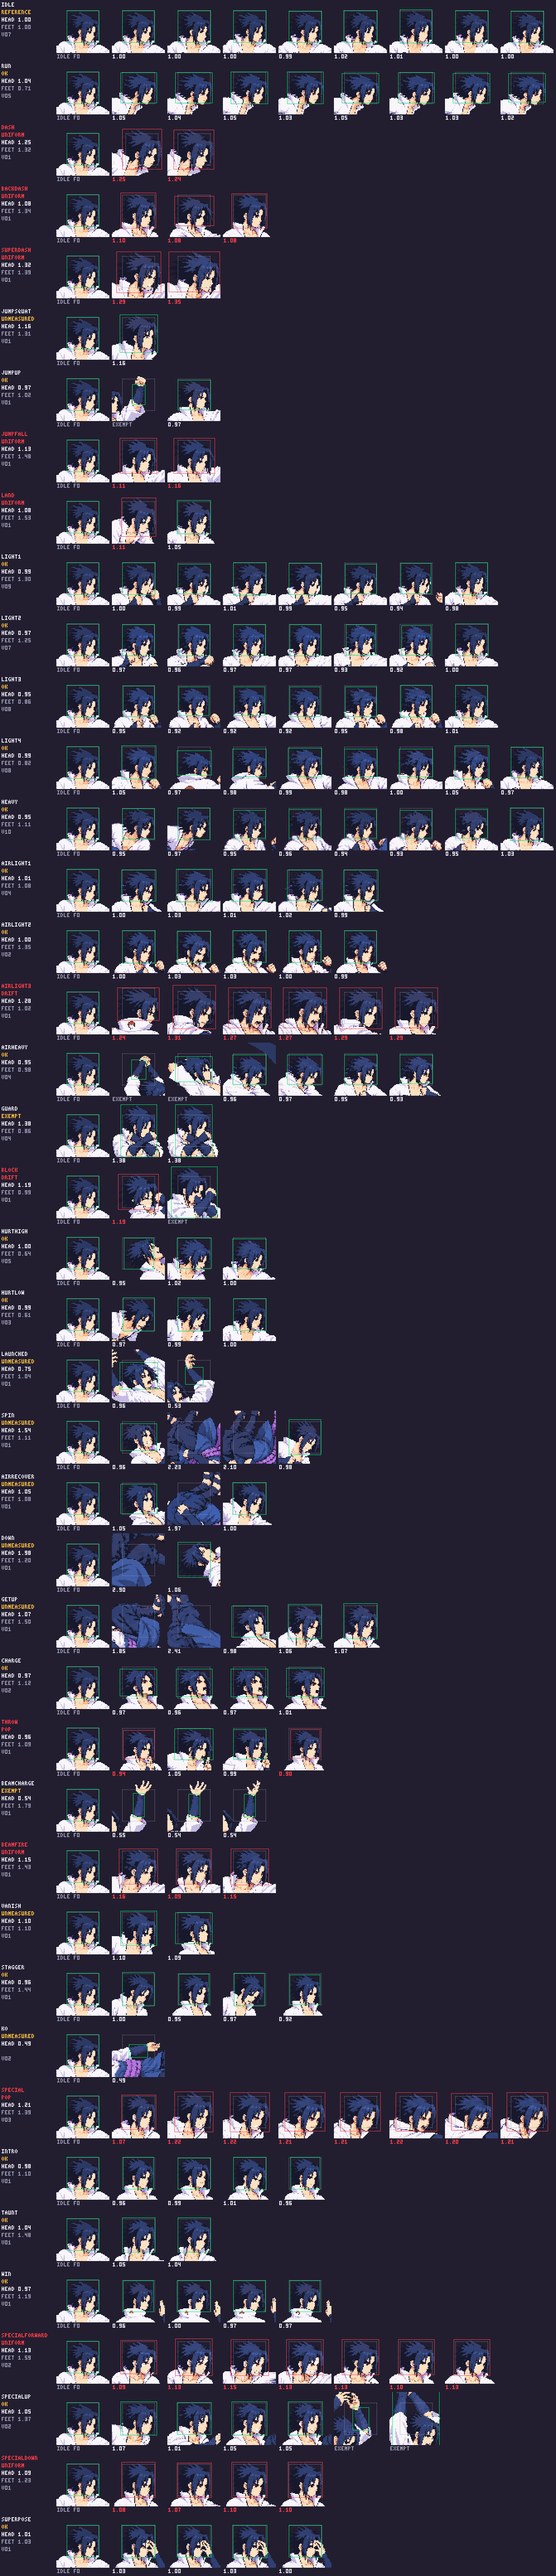
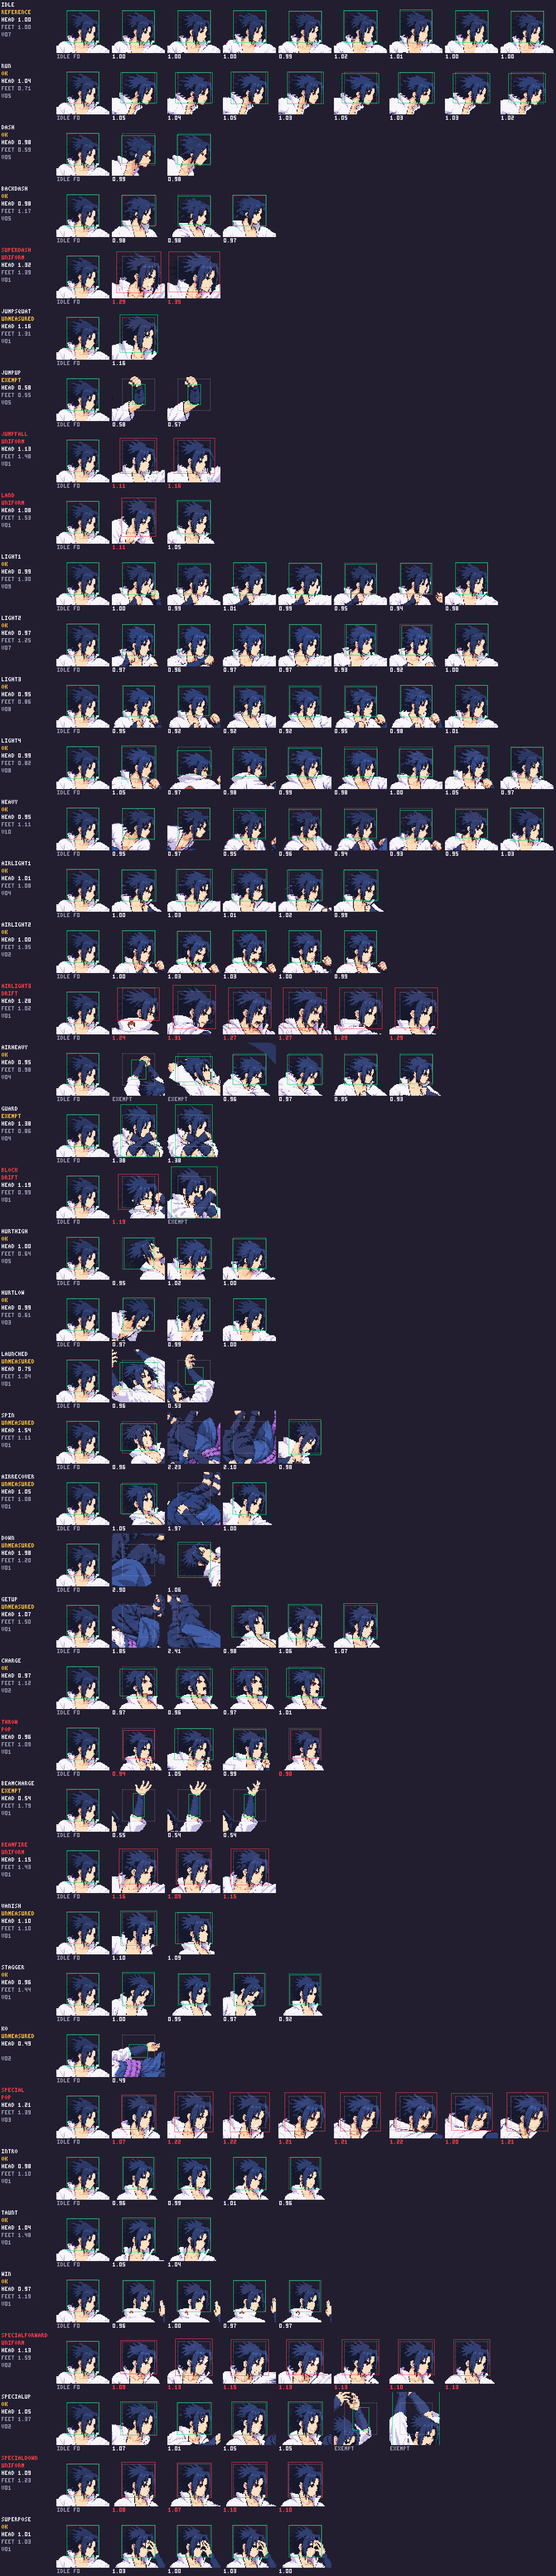
art(sasuke): add title-style dash backdash and rising jump

Changed region(s): [[0.2139, 0.0312, 0.4888, 0.0936], [0.3055, 0.1248, 0.3972, 0.1873], [0.2139, 0.156, 0.2444, 0.1873]]

diff --git a/art/characters/sasuke/production/title-style/QA.md b/art/characters/sasuke/production/title-style/QA.md
@@ -83,6 +83,12 @@ User-approved source: `reference/title_style_draft_v01.png`, plus the 256 px neu
 - `hurtHigh_v05.png` and `hurtLow_v03.png` use measured body-height corrections after the initial candidate gate read the heads at 1.12× and 1.10× idle respectively: 195/1.12=174, 183/1.10=166. Both new-strip 48-color gates then pass without clipping or exemptions. [Actual atlas high-hurt cells](packed-hurtHigh-v05.png) occupy 152×171, 136×173 and 155×174 px; [low-hurt cells](packed-hurtLow-v03.png) occupy 126×143, 132×158 and 140×166 px. The head and torso do not visibly pop while the poses rise toward the approved open-palm guard, and soles are at y240. These are provisional final-set candidates, not user-approved images.
 - `launched_v03.png` was too horizontal and the automated gate required low-confidence independent anatomy review. v04 preserved generated pixels and applied measured +45/+24 px frame offsets to remove left clipping; a temporary **diagnostic-only** manifest extracted [actual atlas QA](packed-launched-v04-qa.png). Its skull/body read too small and the pose remained too horizontal. The second imagegen attempt also stayed horizontal. The third attempt, v05, [diagnostic atlas QA](packed-launched-diag-v05.png), has a more compact bent-knee recoil but open eyes/calm expression instead of the canonical squeezed-shut hit face; the independent one-scale proof remains inconclusive. All v03-v05 are archived technical/visual rejects; no production `scaleManualQA` or exemption was filed. The original approved v01 packs. This animation needs a new round after revising the pose reference or technical brief.
 
+## Dash, backdash and rising jump
+
+- Git history fixes the next numbers at dash v03, backDash v04 and jumpUp v03. The first dash (v03) clipped 14/23 px right and its head popped from 1.06× to 0.91× idle; v04 drew a 1.23× head relative to small feet. v05 is the third imagegen attempt, reducing head without shrinking the torso/legs. Its 48-color new-strip gate passes without clipping or scale exemption. [Both actual atlas cells](packed-dash-v05.png) show the same low forward lean, rear-swept arms and rope, stable skull and y240 sandals.
+- BackDash v04's head measured 1.11× idle while feet measured 0.97×, so it was archived. v05 corrected the head relative to the same torso/legs. Its 48-color new-strip gate passes without exemption or clipping; [actual atlas frames](packed-backDash-v05.png) show push-off, airborne tuck and open-palm landing, with no visible build pop.
+- JumpUp v03 had an automated f0/f1 pop (0.57×/1.13×), and v04 had an automated 0.57× head finding plus near-duplicate poses. The final third imagegen attempt v05 varies the knee and cloth and keeps the skull and body visually stable. The automatic gate reads 0.58× head and 0.55× foot uniformly in an airborne knee tuck; that **is not a numeric pass**. A temporary diagnostic atlas and [3× nearest-neighbor head comparison](packed-jumpUp-v05-head-compare.png) supported independent inspection. The exposed face/neck skin vertical range is idle y84..121 (38 px), v05 f0 y70..107 (38 px), f1 y67..107 (41 px); horizontal face spans are about 25–26 px. At native [actual atlas size](packed-jumpUp-v05.png), the shirt's neck-to-belt length, narrow shoulder/sleeve breadth, forearm length, rope and sheathed sword match idle, while the thighs and shins fold under the hips as the canonical jump requires. The tucked pose prevents a reliable numeric full-limb length estimate. A v05-only **manual anatomy exemption** records this visual one-scale decision; the low-confidence numeric finding remains unresolved and the image is still provisional for user final-set review.
+
 ## Remaining checks
 
 The escalated local Vite adapter served port 5222. The in-app browser showed two Sasuke fighters at the same game depth with the new idle, matched apparent height and grounded feet. The console logged `[sprites] using custom sheet for sasuke (42 animations)` and no errors. The production build passed (80 modules) and the adapter's HTTP self-check returned four 200 responses. Full production, full-character strict scale, contact/hurtbox validation, user image approval, integration and deployment remain open.

diff --git a/art/REVIEW.md b/art/REVIEW.md
@@ -53,6 +53,14 @@ Status values: `needs review` · `approved` · `rejected`.
 
 | date | character | asset | file | version | status | what changed | QA notes |
 |---|---|---|---|---|---|---|---|
+| 2026-10-11 | sasuke | dash | [dash_v05.png](characters/sasuke/raw/dash_v05.png) | v05 | needs review | Third title-style low forward dash attempt, with corrected head and compact rear leg. | 48-color new-strip scale gate passes without exemption or clipping. [Actual packed cells](characters/sasuke/production/title-style/packed-dash-v05.png) · [heads sheet](scale/heads-sasuke.png) · [QA](characters/sasuke/production/title-style/QA.md). Full-set review pending. |
+| 2026-10-11 | sasuke | backDash | [backDash_v05.png](characters/sasuke/raw/backDash_v05.png) | v05 | needs review | Title-style three-frame hop with corrected skull and open-palm landing. | 48-color new-strip gate passes without clipping or exemption. [Actual packed cells](characters/sasuke/production/title-style/packed-backDash-v05.png) · [heads sheet](scale/heads-sasuke.png) · [QA](characters/sasuke/production/title-style/QA.md). Full-set review pending. |
+| 2026-10-11 | sasuke | jumpUp | [jumpUp_v05.png](characters/sasuke/raw/jumpUp_v05.png) | v05 | needs review | Third title-style tucked rising-jump loop. | 48-color pack uses v05-only **manual** anatomy exemption: numeric 0.58 head/0.55 foot finding is unresolved; native atlas skull, torso and folded-limb inspection supports one scale with uncertainty. [Actual cells](characters/sasuke/production/title-style/packed-jumpUp-v05.png) · [head comparison](characters/sasuke/production/title-style/packed-jumpUp-v05-head-compare.png) · [QA](characters/sasuke/production/title-style/QA.md). Full-set review pending. |
+| 2026-10-11 | sasuke | dash | [dash_v04.png](characters/sasuke/raw/_rejected/dash_v04.png) | v04 | rejected | Second low dash redraw. | Head 1.23× approved idle while feet read 0.58×: disproportionate head/body; new-strip gate failed. |
+| 2026-10-11 | sasuke | dash | [dash_v03.png](characters/sasuke/raw/_rejected/dash_v03.png) | v03 | rejected | First title-style low dash. | New-strip gate failed: 14/23 px right clipping and within-strip head 1.06×/0.91× pop. |
+| 2026-10-11 | sasuke | backDash | [backDash_v04.png](characters/sasuke/raw/_rejected/backDash_v04.png) | v04 | rejected | First title-style three-frame backward hop. | Head 1.11× idle while foot proxy 0.97×, so a head-only drift; corrected in v05. |
+| 2026-10-11 | sasuke | jumpUp | [jumpUp_v04.png](characters/sasuke/raw/_rejected/jumpUp_v04.png) | v04 | rejected | Second title-style rising-jump redraw. | Automated head 0.57× and nearly duplicate poses; no independent one-scale finding at this version. |
+| 2026-10-11 | sasuke | jumpUp | [jumpUp_v03.png](characters/sasuke/raw/_rejected/jumpUp_v03.png) | v03 | rejected | First title-style rising jump. | Automated f0/f1 head pop 0.57×/1.13×; no valid new-strip pack. |
 | 2026-10-11 | sasuke | launched | [launched_v05.png](characters/sasuke/raw/_rejected/launched_v05.png) | v05 | rejected | Third imagegen attempt bends the knees for a more compact diagonal recoil. | [Diagnostic atlas](characters/sasuke/production/title-style/packed-launched-diag-v05.png) still shows calm, open eyes instead of the canonical squeezed-shut hit face; low-confidence one-scale anatomy cannot be certified. No production exemption; old approved v01 remains packed. [QA](characters/sasuke/production/title-style/QA.md). |
 | 2026-10-11 | sasuke | launched | [launched_v04.png](characters/sasuke/raw/_rejected/launched_v04.png) | v04 | rejected | Frame-offset patch of v03 source to correct left clipping. | Measured +45/+24 px offsets removed clipping, but [diagnostic packed cells](characters/sasuke/production/title-style/packed-launched-v04-qa.png) remain too horizontal and small. No production exemption. |
 | 2026-10-11 | sasuke | launched | [launched_v03.png](characters/sasuke/raw/_rejected/launched_v03.png) | v03 | rejected | First title-style airborne recoil. | Too horizontal for canonical arched diagonal pose; head/body gate low confidence, and f0/f1 clipped 42/21 px left. |

diff --git a/docs/TASKS.md b/docs/TASKS.md
@@ -20,7 +20,7 @@ The single list of work in flight, shared by the user, Claude and Codex. The pro
 
 ## Milestone M2: training, input, hit accuracy (v0.3.0)
 
-**ART-SAS-TITLE-20261011**, Codex, in-progress. files: art/characters/sasuke/, art/manifest.json, art/TRACKER.md, art/REVIEW.md, art/scale/heads-sasuke.png, public/characters/sasuke/, docs/TASKS.md, CHANGELOG.md. User approved title-style draft and scaled pilot, authorized all 42 animations plus 3 UI without intermediate image gates. Branch `art/sasuke-title-production`, real sparse worktree and draft PR #71 with committed WIP preview. Idle v07, guard v04, run v05, light1 v09, light2 v07, light3 v08, light4 v08, heavy v10, airLight1 v04, airHeavy v04, hurtHigh v05 and hurtLow v03 have native QA; attack endpoints use measured generated idle f0 source for the approved open-palm recovery stance. AirHeavy v04 head-mask exemption is manual and version-only. Down/KO new-style v04/v05 kept original pose layouts but failed clip/floor/scale checks after three imagegen attempts; launched v03-v05 failed pose/scale proof after three attempts; all archived, originals still pack pending redraw guidance. Earlier attack candidates remain archived with reasons in REVIEW.md. Live equal-depth idle/custom-sheet load passed. Full batch, user final review and Claude integration remain open.
+**ART-SAS-TITLE-20261011**, Codex, in-progress. files: art/characters/sasuke/, art/manifest.json, art/TRACKER.md, art/REVIEW.md, art/scale/heads-sasuke.png, public/characters/sasuke/, docs/TASKS.md, CHANGELOG.md. User approved title-style draft and scaled pilot, authorized all 42 animations plus 3 UI without intermediate image gates. Branch `art/sasuke-title-production`, real sparse worktree and draft PR #71 with committed WIP preview. Idle v07, guard v04, run v05, light1 v09, light2 v07, light3 v08, light4 v08, heavy v10, airLight1 v04, airHeavy v04, hurtHigh v05, hurtLow v03, dash v05, backDash v05 and jumpUp v05 have native QA. Attack endpoints use measured generated idle f0 source for the approved open-palm recovery stance. AirHeavy v04 and jumpUp v05 head-mask exemptions are manual and version-only; jumpUp numeric 0.58/0.55 finding remains unresolved. Down/KO new-style v04/v05 kept original pose layouts but failed clip/floor/scale checks after three imagegen attempts; launched v03-v05 failed pose/scale proof after three attempts; all archived, originals still pack pending redraw guidance. Earlier movement/attack candidates remain archived with reasons in REVIEW.md. Live equal-depth idle/custom-sheet load passed. Full batch, user final review and Claude integration remain open.
 
 Cast proportion review: **ART-CAST-SAMPLES**, Codex, review. User requested a quick sample checkpoint before the full frame audit. Branch `art/cast-scale-samples` compares production-matched sprites, Naruto guard/block/spot-dodge head crops, and approved turnarounds. No art approvals or gameplay changes. Full audit paused for user feedback; Claude owns integration.
 

diff --git a/art/TRACKER.md b/art/TRACKER.md
@@ -154,12 +154,12 @@ Sprite Lab; if his hair adds clearly less height and his head comes out bigger, 
 | 7 | beamCharge | 3 | - | **yes** | 198 | approved | v01 | v01 | User approved the final batch 2026-10-10 (chat with Claude, PR #9). |
 | 7 | beamFire | 3 | - | **yes** | 198 | approved | v01 | v01 | User approved the final batch 2026-10-10 (chat with Claude, PR #9). |
 | 7 | special | 8 | 3/3/2 | **yes** | 204 | approved | v03 | v03 | User approved latest version 2026-10-10; documented QA deviations accepted. Ready for integration. |
-| 8 | dash | 2 | - | **yes** | 160 | approved | v01 | v01 | User approved the final batch 2026-10-10 (chat with Claude, PR #9). |
-| 8 | jumpUp | 2 | - | **yes** | 198 | approved | v01 | v01 | User approved the final batch 2026-10-10 (chat with Claude, PR #9). |
+| 8 | dash | 2 | - | **yes** | 160 | approved | v05 | v01 | Title-style v05 candidate passes 48-color new-strip gate without clipping or exemption; v03 clipped/head-popped and v04 had enlarged head. Actual two-frame atlas QA. Old v01 remains approved pending final-set review. |
+| 8 | jumpUp | 2 | - | **yes** | 198 | approved | v05 | v01 | Title-style v05 candidate: actual atlas skull/torso/limb visual comparison supports a v05-only manual exemption of the airborne-tuck 0.58 head/0.55 feet proxy; this is not a numeric pass. v03/v04 archived. Old v01 remains approved pending final-set review. |
 | 8 | jumpFall | 2 | - | **yes** | 209 | approved | v01 | v01 | User approved the final batch 2026-10-10 (chat with Claude, PR #9). |
 | 8 | land | 2 | - | **yes** | 174 | approved | v01 | v01 | User approved the final batch 2026-10-10 (chat with Claude, PR #9). |
 | 8 | win | 4 | - | **yes** | 212 | approved | v01 | v01 | User approved the final batch 2026-10-10 (chat with Claude, PR #9). |
-| 9 | backDash | 3 | - | no | 207 | approved | v01 | v01 | User approved the final batch 2026-10-10 (chat with Claude, PR #9). |
+| 9 | backDash | 3 | - | no | 207 | approved | v05 | v01 | Title-style v05 candidate corrects v04's enlarged head; 48-color new-strip gate passes without clipping/exemption and three actual atlas cells show push-off, airborne tuck and open-palm landing. Old v01 remains approved pending final-set review. |
 | 9 | superDash | 2 | - | no | 120 | approved | v01 | v01 | User approved the final batch 2026-10-10 (chat with Claude, PR #9). |
 | 9 | jumpSquat | 1 | - | no | 162 | approved | v01 | v01 | User approved the final batch 2026-10-10 (chat with Claude, PR #9). |
 | 9 | airLight2 | 5 | 1/2/2 | no | 207 | approved | v02 | v02 | User approved the final batch 2026-10-10 (chat with Claude, PR #9). |

diff --git a/CHANGELOG.md b/CHANGELOG.md
@@ -10,6 +10,7 @@ Every change adds a line under **Unreleased** in the right group: Added, Changed
 Fixed, Security. Reference task ids and ADRs where useful.
 
 ## [Unreleased]
+- art(sasuke): add title-style dash v05 and backDash v05, plus jumpUp v05 with a documented manual airborne-tuck scale exemption; archive five failed movement candidates.
 - art(sasuke): add title-style high/low hurt reactions with measured head-fit heights and actual 48-color atlas QA; archive three failed launched candidates without a scale exemption.
 
 - art(sasuke): preserve original down/KO pose layouts in new-style attempts v04/v05, archive technical rejects after clip, floor-contact and uncertain-scale checks; keep original approved poses active pending redraw guidance.
